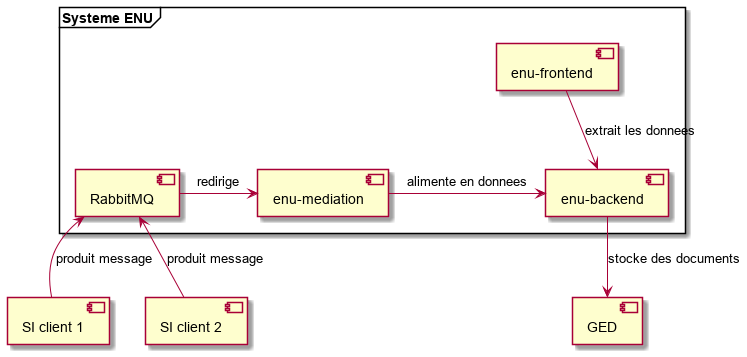
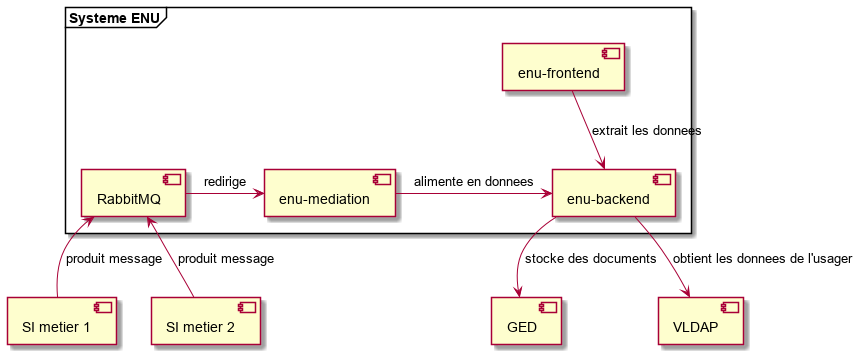
Compléments

diff --git a/README.md b/README.md
@@ -5,7 +5,22 @@ configuré à Genève.
 
 ## Présentation fonctionnelle
 
-(à faire)
+L'Espace numérique de l'usager est une application Web visant à munir le citoyen genevois d'une vue de l'ensemble
+de ses démarches auprès de l'État de Genève, alors qu'actuellement cette vue est éparpillée parmi les systèmes 
+des divers offices de l'État.
+Comme exemples de démarches, on peut citer la soumission de la déclaration d'impôts, la demande d'un certificat
+de bonne vie et mœurs, l'inscription au chômage, la requête en autorisation d'une manifestation.
+Les principales fonctionnalités du système sont :
+- présenter les démarches engagées par l'usager et leur suivi par l'administration ;
+- présenter les actions de l'usager attendues par l'administration ;
+- présenter les documents administratifs envoyés par l'administration à l'usager.
+
+On notera que l'Espace numérique ne contient aucune fonctionnalité de création de démarche - par exemple via
+une saisie dans un formulaire. Toutes les démarches sont créées extérieurement, dans les divers systèmes des
+offices de l'État, et simplement agrégées dans l'Espace numérique de l'usager.
+
+La copie d'écran suivante donne un aperçu de la page d'accueil de l'usager :
+![](./images/enu-frontend.png)
 
 ## Présentation technique
 
@@ -15,30 +30,45 @@ Le système se compose de 4 composants principaux, résumés dans le tableau sui
 
 | Composant | Responsabilités | Technologies | 
 | --------- |:--------------- | ------------ |
-| enu-frontend | interface homme-machine | HTML 5, React, JavaScript | 
-| enu-backend   | stockage des données et accès via REST | Java, Spring, PostgreSQL |
+| enu-frontend | interface homme-machine | HTML 5, React, JavaScript, WebSocket | 
+| enu-backend | stockage des données et accès via REST | Java, Spring, PostgreSQL |
 | enu-mediation | transformation et routage des messages | Java, Apache Camel |
 | RabbitMQ | middleware de messagerie | Apache RabbitMQ | 
 
 Le diagramme ci-dessus est en réalité simplifié : si le SI client est principalement producteur de messages et
 enu-mediation, principalement consommateur, pour certaines données le trafic s'opère dans l'autre sens.
 
-### enu-frontend
+### a) enu-frontend
 
+Ce composant définit l'interface présentée à l'usager.
 
-REST
+Les fonctionnalités sont peu nombreuses et consistent essentiellement en de l'affichage de données.
+Comme il n'y a pas d'opérations complexes, comme des saisies de données avec validations ou des gestions d'états
+de composants graphiques, l'économie a pu être faite de l'usage d'un canevas d'application avancé comme Angular.
+Au contraire, l'interface se base sur le standard HTML 5, avec support de la bibliothèque React et d'une quantité
+modérée de code en JavaScript.
 
-### enu-backend
+Pour l'affichage en temps quasi réel de nouvelles démarches, les WebsSockets sont néanmoins utilisés. 
+
+La communication se fait uniquement avec le composant enu-backend, au moyen d'appels de services REST.
+
+Ce composant utilise la charte graphique de l'État de Genève (lien ici).
+Comme cette charte est externe, elle est aisément remplaçable par la charte d'une autre organisation.
+
+### b) enu-backend
 
 Ce composant est le coeur du système. Il est constitué principalement de bibliothèques de FormServices, qui est
 le serveur d'exécution de la solution [FormSolution](https://www.jway.eu/) de formulaires en ligne de l'éditeur Jway.
-On notera que l'État de Genève exploite deux spécimens de FormServices : l'un est FormSolution, qui est payant,
-qui héberge les formulaires en ligne de l'administration cantonale ; l'autre est intégré, en mode open source, dans
-l'Espace nunérique de l'usager décrit ici.
+On notera que l'État de Genève exploite deux spécimens de FormServices : l'un est FormSolution, qui est payant et
+qui héberge la plupart de formulaires en ligne de l'administration cantonale ;
+l'autre est intégré, en mode open source, dans l'Espace numérique de l'usager décrit ici.
 
-BD shcéams de Jway
+Ce composant contrôle une base de données PostgreSQL, dont le schéma de données est pour l'essentiel celui de
+FormServices.
 
-### enu-mediation
+Ce composant est écrit en Java et est basé sur JPA, Spring et JAX-RS. 
+
+### c) enu-mediation
 
 Une solution de messagerie a été incluse dans le système. Elle permet de découpler les systèmes métier de
 enu-backend.
@@ -57,14 +87,14 @@ démarche d'un usager.
 Le flux se fait parfois dans le sens inverse, par exemple quand sur l'IHM enu-frontend l'usager ... ; le système
 métier doit en être averti.
 
-### RabbitMQ
+### d) RabbitMQ
 
 [Apache RabbitMQ](https://www.rabbitmq.com) est une mise en oeuvre reconnue et open source du protocole de
 messagerie [AMQP](https://en.wikipedia.org/wiki/Advanced_Message_Queuing_Protocol).
 
-Queues
+L'application Espace numérique utilise RabbitMQ en y définissant des queues et des "Exchanges".
 
-En cas d'erreur, rejouer
+(à faire : queues de réponse, queues d'erreur, trafic bi-directionnel)
 
 Il a été dans un premier temps envisagé l'utiliser [Apache Kafka](http://kafka.apache.org/) plutôt que RabbitMQ
 comme solution de messagerie.
@@ -74,25 +104,41 @@ et ne compensait pas sa complexité ; de plus, certains éléments importants (i
 n'entraient pas dans une solution entièrement open source.
 De son côté, RabbitMQ remplit assez exactement le besoin de l'Espace numérique de l'usager.
 
-### Autres
+### e) Autres
 
-#### SI client
+#### SI métier
 
-Un SI (système informatique) client est un système de l'État, par exemple le système de l'Administration fiscale
-ou celui de l'Office des poursuites et faillites ou celui des Formulaires en ligne.
+Un SI (système informatique) client est un système de l'État, par exemple le système de l'Administration fiscale,
+celui de l'Office des poursuites et faillites ou celui des Formulaires en ligne.
+Le SI métier est le pourvoyeur d'informations à l'Espace numérique. Ces informations consistent principalement
+dans les démarches ouvertes par les usagers dans le SI client, ainsi que les documents afférents.
+Une démarche envoyée par un SI métier est donc stockée en deux endroits : dans la base de données du SI
+métier et dans la base de données de l'Espace numérique.
 
-#### Valve
+#### Valve et VLDAP
 
+Le composant enu-backed est déployé sur un serveur Tomcat, sur lequel une valve Tomcat est déployée.
+Cette valve interroge un VLDAP de l'État pour rapatrier les rôles de l'usager et les transmettre au
+composant enu-backend. Les rôles des usagers sont ainsi synchronisés entre l'annuaire de l'État et l'Espace
+numérique.
+
+L'authentification de l'usager se fait en amont et est contrôlée par le proxy inverse de l'État de Genève.
 
 #### Charte graphique
 
+(à faire)
 
 ## Présentation organisationnelle
 
-Le projet Espace numérique de l'usager est une collaboration entre l'État de Genève (c'est-à-dire le canton de 
-Genève, en Suisse) et la société luxembourgeoise [Jway](https://jway.eu).
+Le projet Espace numérique de l'usager est une collaboration entre l'État de Genève 
+et la société luxembourgeoise [Jway](https://jway.eu).
+Cette collaboration permet aux deux parties de diffuser leurs savoir-faire respectifs.
 
-à faire :
-- but de chacun
-- part de chacun à la construction
-- part de chacun à la gouvernance open source
+Comme il a été expliqué plus haut, le coeur de l'Espace numérique est le serveur FormServices de la solution
+de formulaires en ligne proposée par la société Jway, et entièrement développé par elle depuis des années.
+Les composants enu-frontend, enu-mediation et enu-backend ont été développés par l'État de Genève - le composant
+enu-backend en étroite collaboration avec Jway.
+
+La maintenance de l'Espace numérique de l'usager (enu-fontend et enu-backend) sera assurée par Jway.
+La maintenance de l'Espace numérique de l'usager tel qu'il est déployé à Genève (enu-mediation, queues RabbitMQ, contrats des
+messages) sera assurée par l'État de Genève.
